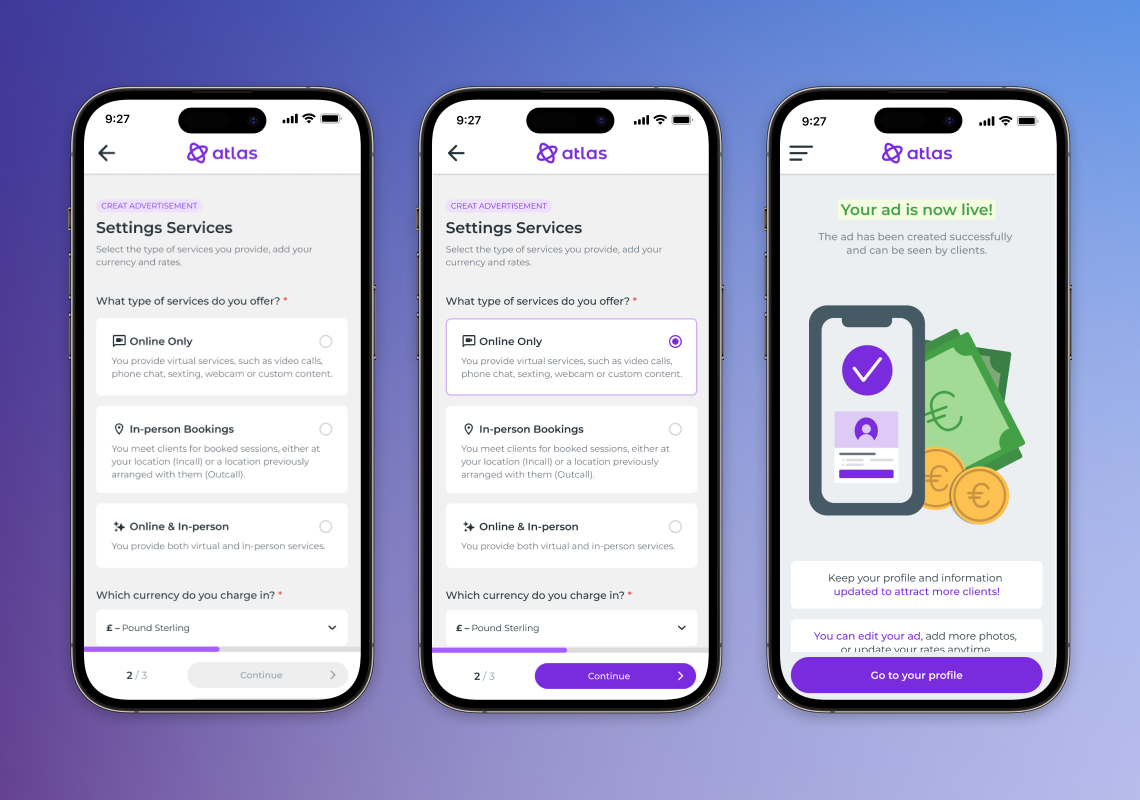
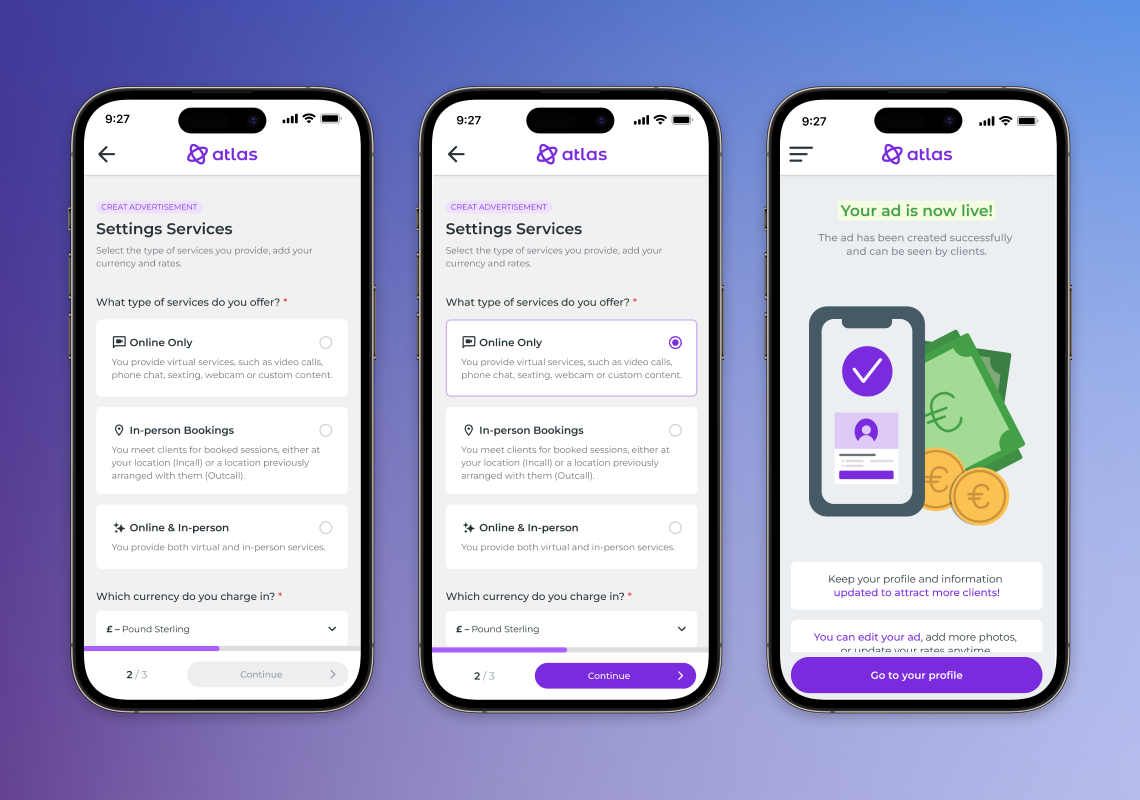
Use Atlas SVG brand and updated artwork with consistent result motion

diff --git a/case-atlas.html b/case-atlas.html
@@ -6,8 +6,8 @@
     <title>Case Atlas</title>
       <link rel="icon" type="image/svg+xml" href="assets/icons/gabriele_pedro_product_designer_24px.svg">
   <link rel="stylesheet" href="styles/style.css?v=global-base-3" />
-  <link rel="stylesheet" href="styles/components/atlas.css?v=atlas-2">
-  <link rel="stylesheet" href="styles/motion.css?v=case-images-3">
+  <link rel="stylesheet" href="styles/components/atlas.css?v=atlas-3">
+  <link rel="stylesheet" href="styles/motion.css?v=results-5">
 <link rel="stylesheet" href="styles/components/image-viewer.css?v=viewer-1">
 <link rel="stylesheet" href="styles/components/related-cases.css?v=related-3">
 </head>
@@ -41,7 +41,7 @@
       <section class="atlas-hero" aria-labelledby="atlas-title">
         <div class="atlas-hero-inner">
           <div class="atlas-hero-copy">
-            <div class="atlas-brand" aria-label="Atlas">atlas</div>
+            <img class="atlas-brand" src="assets/icons/BRAND-ATLAS-NEGATIVE.svg" alt="Atlas" width="190" height="56">
             <h1 id="atlas-title"><span>Redesign:</span><span>Cadastro</span><span>Internacional</span></h1>
             <p class="atlas-hero-tag">UX Research, e escalabilidade global</p>
           </div>
@@ -95,8 +95,8 @@
         </div>
       </section>
       <section class="atlas-gallery" aria-label="Telas do projeto Atlas">
-        <figure><a class="case-media-link" href="assets/images/Atlas/Case-Atlas-01.png" aria-haspopup="dialog" aria-controls="case-image-viewer" aria-label="Ampliar: Três telas de informações básicas no cadastro Atlas, com campos de perfil, data de nascimento e validação de preenchimento." title="Ampliar imagem"><img src="assets/images/Atlas/Case-Atlas-01.png" alt="Três telas de informações básicas no cadastro Atlas, com campos de perfil, data de nascimento e validação de preenchimento." width="1140" height="800" loading="lazy"></a></figure>
-        <figure><a class="case-media-link" href="assets/images/Atlas/Case-Atlas-02.png" aria-haspopup="dialog" aria-controls="case-image-viewer" aria-label="Ampliar: Telas Atlas de configuração de serviços e valores, seguidas pela confirmação de publicação do anúncio." title="Ampliar imagem"><img src="assets/images/Atlas/Case-Atlas-02.png" alt="Telas Atlas de configuração de serviços e valores, seguidas pela confirmação de publicação do anúncio." width="1140" height="800" loading="lazy"></a></figure>
+        <figure><a class="case-media-link" href="assets/images/Atlas/Case-Atlas-01.png?v=a030008abf6e" aria-haspopup="dialog" aria-controls="case-image-viewer" aria-label="Ampliar: Três telas de informações básicas no cadastro Atlas, com campos de perfil, data de nascimento e validação de preenchimento." title="Ampliar imagem"><img src="assets/images/Atlas/Case-Atlas-01.png?v=a030008abf6e" alt="Três telas de informações básicas no cadastro Atlas, com campos de perfil, data de nascimento e validação de preenchimento." width="1140" height="800" loading="lazy"></a></figure>
+        <figure><a class="case-media-link" href="assets/images/Atlas/Case-Atlas-02.png?v=b331ba4ece94" aria-haspopup="dialog" aria-controls="case-image-viewer" aria-label="Ampliar: Telas Atlas de configuração de serviços e valores, seguidas pela confirmação de publicação do anúncio." title="Ampliar imagem"><img src="assets/images/Atlas/Case-Atlas-02.png?v=b331ba4ece94" alt="Telas Atlas de configuração de serviços e valores, seguidas pela confirmação de publicação do anúncio." width="1140" height="800" loading="lazy"></a></figure>
       </section>
     </main>
 

diff --git a/styles/motion.css b/styles/motion.css
@@ -34,15 +34,18 @@ body.motion-ready .is-visible .hero-word { opacity: 1; transform: none; }
 .custom-cursor.is-hovering .custom-cursor-icon { transform: scale(1.4375); }
 .custom-cursor img { display: block; width: 32px; height: 32px; animation: asterisco-rotate 5s linear infinite; }
 @keyframes asterisco-rotate { to { transform: rotate(360deg); } }
-.work-section .work-card .badge, .mp-result-card > .case-media-link { transform-origin: center; animation: work-badge-breathe 5.5s ease-in-out infinite; }
-.work-section .work-card .badge img, .mp-result-icon { transform-origin: center; animation: work-icon-drift 5.5s ease-in-out infinite; }
+.work-section .work-card .badge, .mp-result-card > .case-media-link, .atlas-result-card > .case-media-link { transform-origin: center; animation: work-badge-breathe 5.5s ease-in-out infinite; }
+.work-section .work-card .badge img, .mp-result-icon, .atlas-result-card img { transform-origin: center; animation: work-icon-drift 5.5s ease-in-out infinite; }
 .work-section .work-card:nth-child(2) .badge,
 .work-section .work-card:nth-child(2) .badge img,
-.mp-result-card:nth-child(2) > .case-media-link, .mp-result-card:nth-child(2) .mp-result-icon { animation-delay: -1.8s; }
+.mp-result-card:nth-child(2) > .case-media-link, .mp-result-card:nth-child(2) .mp-result-icon,
+.atlas-result-card:nth-child(2) > .case-media-link, .atlas-result-card:nth-child(2) img { animation-delay: -1.8s; }
 .work-section .work-card:nth-child(3) .badge,
 .work-section .work-card:nth-child(3) .badge img,
-.mp-result-card:nth-child(3) > .case-media-link, .mp-result-card:nth-child(3) .mp-result-icon { animation-delay: -3.6s; }
-.mp-result-card:nth-child(4) > .case-media-link, .mp-result-card:nth-child(4) .mp-result-icon { animation-delay: -4.5s; }
+.mp-result-card:nth-child(3) > .case-media-link, .mp-result-card:nth-child(3) .mp-result-icon,
+.atlas-result-card:nth-child(3) > .case-media-link, .atlas-result-card:nth-child(3) img { animation-delay: -3.6s; }
+.mp-result-card:nth-child(4) > .case-media-link, .mp-result-card:nth-child(4) .mp-result-icon,
+.atlas-result-card:nth-child(4) > .case-media-link, .atlas-result-card:nth-child(4) img { animation-delay: -4.5s; }
 @keyframes work-badge-breathe { 0%,100% { transform: scale(1); } 50% { transform: scale(1.07); } }
 @keyframes work-icon-drift { 0%,100% { transform: scale(1); } 50% { transform: scale(1.045) rotate(2deg); } }
 @media (hover: none), (pointer: coarse) { .custom-cursor { display: none; } }
@@ -53,5 +56,5 @@ body.motion-ready .is-visible .hero-word { opacity: 1; transform: none; }
   }
   .motion-media { transition: none; transform: none; }
   .work-section .work-card .badge, .work-section .work-card .badge img,
-  .mp-result-card > .case-media-link, .mp-result-icon { animation: none; }
+  .mp-result-card > .case-media-link, .mp-result-icon, .atlas-result-card > .case-media-link, .atlas-result-card img { animation: none; }
 }

diff --git a/styles/components/atlas.css b/styles/components/atlas.css
@@ -4,9 +4,9 @@
 .atlas-project p, .atlas-project dd { margin: 0; font: 400 20px/1.4 var(--font-family-body); letter-spacing: .01em; }
 .atlas-project strong { font-weight: 700; }
 .atlas-hero { background: var(--atlas-purple); border-radius: 0 0 0 var(--atlas-radius); color: white; }
-.atlas-hero-inner { max-width: 1440px; min-height: 600px; margin-inline: auto; padding: 100px 0 0 var(--atlas-inline); display: flex; align-items: flex-start; gap: 16px; }
+.atlas-hero-inner { width: 100%; min-height: 600px; margin-inline: auto; padding: 100px 0 0 max(var(--atlas-inline), calc((100% - 1140px) / 2)); display: flex; align-items: flex-start; gap: 16px; }
 .atlas-hero-copy { display: flex; flex: 1; min-width: 0; flex-direction: column; align-items: flex-start; gap: 16px; }
-.atlas-brand { height: 56px; font: 700 48px/56px var(--font-family-body); }
+.atlas-brand { width: 190px; height: 56px; object-fit: contain; }
 .atlas-hero h1 { display: flex; flex-direction: column; gap: 8px; margin: 0; font: 400 56px/1.2 var(--font-family-headings); letter-spacing: -.04em; }
 .atlas-hero h1 span { display: block; }
 .atlas-project .atlas-hero-tag { background: #e25352; color: white; padding: 0 8px; font-size: 24px; }
@@ -43,8 +43,8 @@
 }
 @media (max-width: 900px) {
  .atlas-page { --atlas-inline: 24px; --atlas-radius: 64px; }
- .atlas-hero-inner { min-height: 0; padding: 64px var(--atlas-inline) 0; flex-direction: column; gap: 40px; }
- .atlas-hero-art { width: min(575px, 100%); align-self: center; }
+ .atlas-hero-inner { min-height: 0; padding: 64px 0 0 var(--atlas-inline); flex-direction: column; gap: 40px; }
+ .atlas-hero-art { width: min(575px, 100%); align-self: flex-end; }
  .atlas-context-inner { padding: 0 var(--atlas-inline); flex-direction: column-reverse; }
  .atlas-context-art { width: min(575px, 100%); align-self: flex-end; }
  .atlas-context-copy { padding-top: 48px; }

diff --git a/styles/components/yampi-banner.css b/styles/components/yampi-banner.css
@@ -39,7 +39,7 @@
 .case-page--yampi .banner--yampi .hero-lines { margin-top: 0; }
 .case-page--yampi .banner--yampi .hero-line { font-size: 56px; line-height: 1.2; }
 .case-page--yampi .banner--yampi .case-pill { padding: var(--pill-padding-vertical) var(--pill-padding-horizontal); white-space: normal; }
-.case-page--yampi .banner--yampi .case-pill-text { font-size: 32px; }
+.case-page--yampi .banner--yampi .case-pill-text { font: 400 24px/1.4 var(--font-family-body); }
 .case-page--yampi .banner--yampi .banner-meta { display: flex; justify-content: flex-end; padding-top: 24px; }
 .case-page--yampi .banner--yampi .meta-text { width: 100%; max-width: 540px; margin: 20px 0; text-align: right; color: var(--system-text-black); }
 @media (max-width: 1200px) {
@@ -56,3 +56,5 @@
   .case-page--yampi .banner--yampi .hero-line { font-size: 34px; line-height: 1.02; }
   .case-page--yampi .banner--yampi .case-pill { white-space: normal; }
 }
+
+@media (max-width: 600px) { .case-page--yampi .banner--yampi .case-pill-text { font-size: 20px; } }

diff --git a/case-yampi.html b/case-yampi.html
@@ -9,7 +9,7 @@
 <link rel="stylesheet" href="styles/style.css?v=global-base-3" />
   <link rel="stylesheet" href="styles/components/case-yampi.css?v=yampi-tags-2" />
   <link rel="stylesheet" href="styles/case-layout.css?v=yampi-results-3" />
-  <link rel="stylesheet" href="styles/components/yampi-banner.css?v=background-2" />
+  <link rel="stylesheet" href="styles/components/yampi-banner.css?v=tag-3" />
   <link rel="stylesheet" href="styles/motion.css?v=case-images-3">
 <link rel="stylesheet" href="styles/components/image-viewer.css?v=viewer-1">
 <link rel="stylesheet" href="styles/components/related-cases.css?v=related-3">
